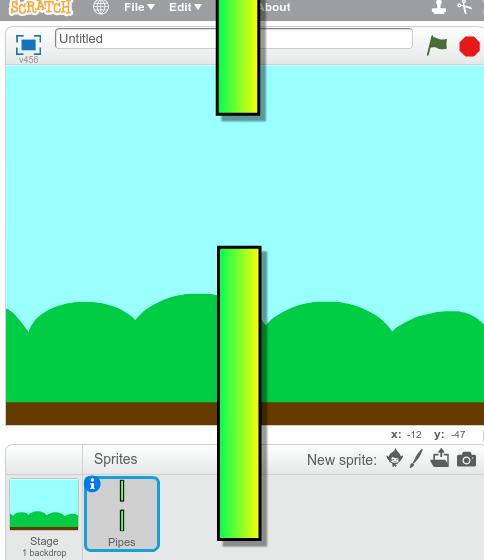
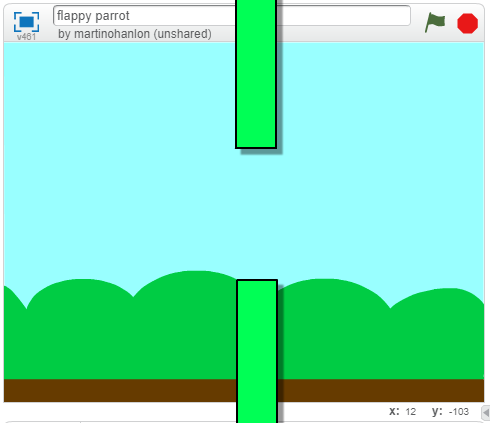
migration updates

diff --git a/en/step_2.md b/en/step_2.md
@@ -1,9 +1,86 @@
-## What you will need
+## Add the pipes
 
-### Hardware
+First let's create the pipes.
 
-+ Computer capable of running Scratch 2.0
+--- task ---
 
-### Software
+Open a new empty Scratch project.
 
-+ Scratch 2.0 (either [online](https://scratch.mit.edu/projects/editor/) or [offline](https://scratch.mit.edu/scratch2download/))
+[[[generic-scratch-new-project]]]
+
+--- /task ---
+
+--- task ---
+
+Add a background with an outdoor landscape. 'blue sky' is a good choice.
+
+![screenshot](images/flappy-stage.png)
+
+[[[generic-scratch-backdrop-from-library]]]
+
+--- /task ---
+
+--- task ---
+
+Click on the `Paint new sprite` button and name your sprite **Pipes**.
+
+[[[generic-scratch-rename-sprite]]]
+
+--- /task ---
+
+The `Pipes` sprite will have a pair of pipes with a gap in the middle. You'll be able to move the sprite up and down to get the gap in a different place.
+
+Let's take a look at how this is going to work.
+
+This picture shows an example of how the pipes could be positioned, the parts outside the stage are normally hidden, you only see it when you drag the sprite:
+
+![screenshot](images/flappy-pipes-position.png)
+
+You can't draw a pipe as big as the pipes need to be, but you can increase the size of a sprite when it's used.
+
+--- task ---
+
+Add code to make the sprite bigger.
+
+```blocks
+when green flag clicked
+set size to (200) %
+```
+
+This will make it easier to see how big you need to make the pipes.
+
+--- /task ---
+
+--- task ---
+
+Switch the Paint editor to Vector mode, by clicking **Convert to vector** in the bottom right.
+
+![convert to vector button highlighted](images/vector-mode-button.png)
+
+--- /task ---
+
+--- task ---
+
+Draw a black outline rectangle for the top pipe as shown:
+
+![black rectangle for the pipe](images/flappy-pipes-rectangle.png)
+
+--- /task ---
+
+--- task ---
+
+Fill the rectangle in a colour you like for the pipes.
+
+![fill the rectangle](images/flappy-pipes-fill-rectangle.png)
+
+--- /task ---
+
+--- task ---
+
+Click on the duplicate (stamper) tool and then on your pipe to create a copy.
+
+Drag the copy of the sprite to the bottom of the screen, in line with the top sprite.
+
+![screenshot](images/flappy-pipes-duplicate2.png)
+
+--- /task ---

diff --git a/en/step_3.md b/en/step_3.md
@@ -1,61 +1,11 @@
+## Challenge: Make better pipes
 
-
-## Add the backdrop and pipes
-
-First let's create the pipes.
-
-+ Open a new empty Scratch project.
-
-[[[generic-scratch-new-project]]]
-
-+ Add a background with an outdoor landscape. 'blue sky' is a good choice.
-
-    ![screenshot](images/flappy-stage.png)
-
-[[[generic-scratch-backdrop-from-library]]]
-
-+ Click on the `Paint new sprite` button.
-
-+ Name your sprite **Pipes**.
-
-[[[generic-scratch-rename-sprite]]]
-
-+ The `Pipes` sprite will have a pair of pipes with a gap in the middle. You'll be able to move the sprite up and down to get the gap in a different place.
-
-    Let's take a look at how this is going to work.
-
-    This picture shows an example of how the pipes could be positioned, the parts outside the stage are normally hidden, you only see it when you drag the sprite:
-
-    ![screenshot](images/flappy-pipes-position.png)
-
-+ You can't draw a pipe as big as the pipes need to be, but you can increase the size of a sprite when it's used.
-
-    Add code to make the sprite bigger.
-
-    ![screenshot](images/flappy-pipes-size.png)
-
-    This will make it easier to see how big you need to make the pipes.
-
-+ Switch the Paint editor to Vector mode.
-
-[[[generic-scratch-vector-mode]]]
-
-+ Draw a black outline rectangle for the top pipe as shown:
-
-    ![screenshot](images/flappy-pipes-rectangle.png)
+Can you make your pipes look even better?
 
 + Shade your pipe with a left-to-right gradient.
 
-    ![screenshot](images/flappy-pipes-filled.png)
+![screenshot](images/flappy-pipes-filled.png)
 
-[[[generic-scratch-vector-gradient]]]
++ Add extra rectangles to the ends of the pipes:
 
-+ Click on the duplicate (stamper) tool and then on your pipe to create a copy.
-
-    Drag the copy of the sprite to the bottom of the screen, in line with the top sprite.
-
-    ![screenshot](images/flappy-pipes-duplicate.png)
-
-+ If you like, you can add extra shaded rectangles to the ends of the pipes:
-
-    ![screenshot](images/flappy-pipes-ends.png)
+![screenshot](images/flappy-pipes-ends.png)

diff --git a/en/step_1.md b/en/step_1.md
@@ -1,5 +1,3 @@
-
-
 ## Introduction
 
 Create a game in which you have to guide a parrot through scrolling pipes to score points.
@@ -18,3 +16,14 @@ Click the green flag to start the game. Press the space bar to flap, and try to 
 This project covers elements from the following strands of the [Raspberry Pi Digital Making Curriculum](http://rpf.io/curriculum):
 
 + [Apply basic programming constructs to solve a problem](https://www.raspberrypi.org/curriculum/programming/builder)
+
+
+## What you will need
+
+### Hardware
+
++ Computer capable of running Scratch 2.0
+
+### Software
+
++ Scratch 2.0 (either [online](https://scratch.mit.edu/projects/editor/) or [offline](https://scratch.mit.edu/scratch2download/))
